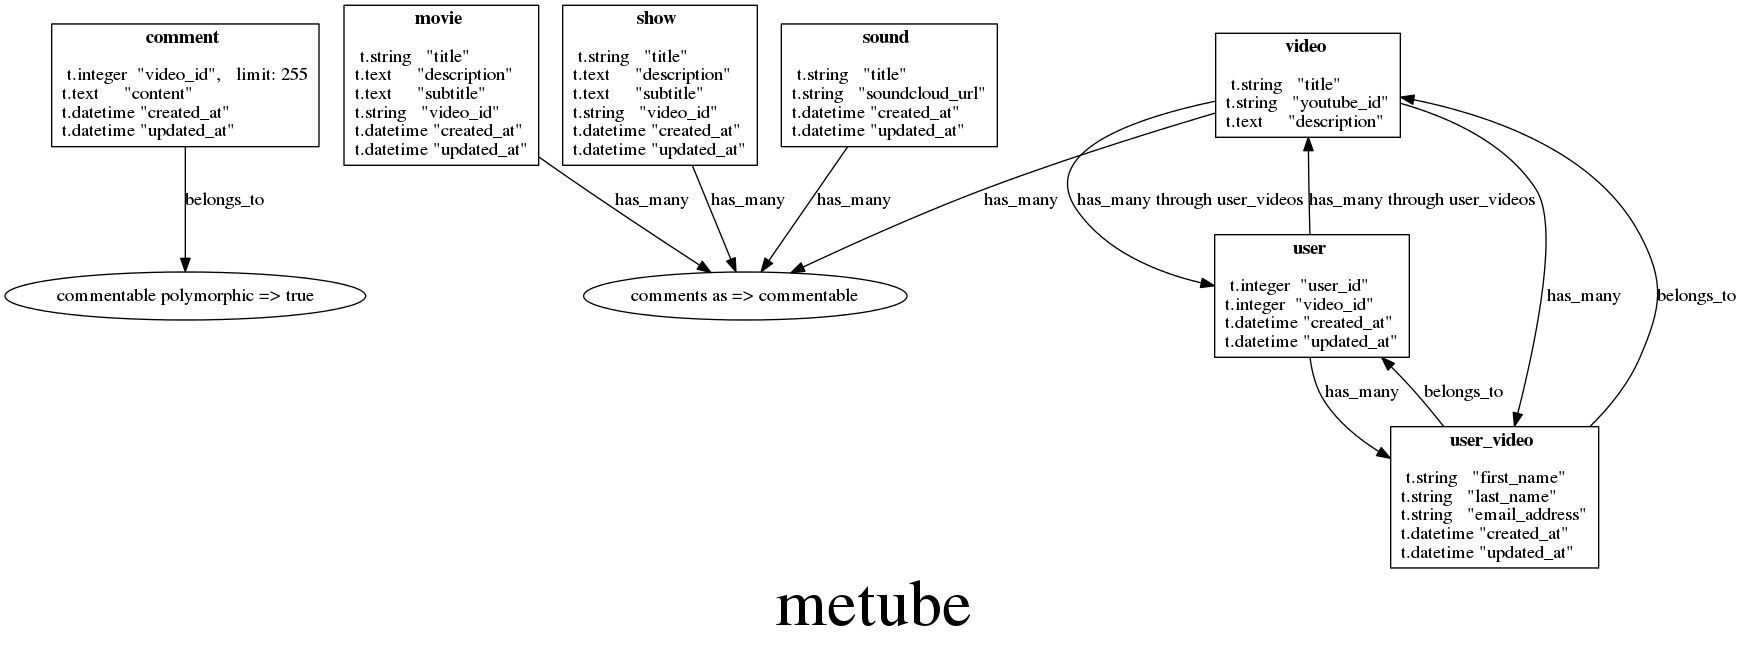
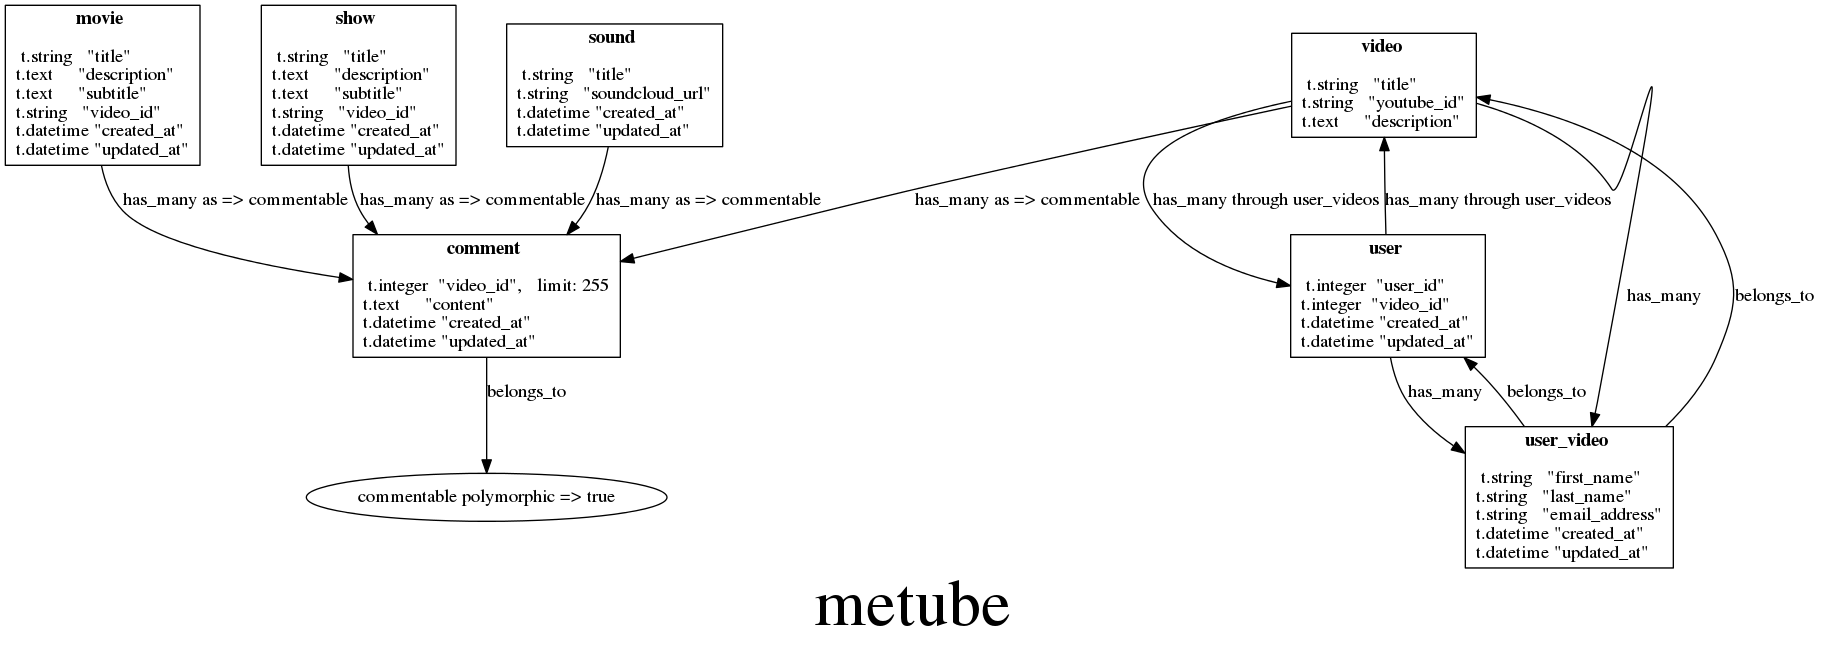
handling polymorphic associations correctly!

diff --git a/app/controllers/scrapers_controller.rb b/app/controllers/scrapers_controller.rb
@@ -125,11 +125,12 @@ class ScrapersController < ApplicationController
           index = nodeNames.find_index(nodeToConnect.split()[0].singularize) 
           nodeToConnect = nodes[index]
 
+        #processing for polymorphic "as" association
+        elsif (nodeToConnect.include?("as"))
+          relationship += nodeToConnect.split()[1..-1].join(" ")
+          index = nodeNames.find_index(nodeToConnect.split()[0].singularize)
+          nodeToConnect = nodes[index]
 
-        # processing for polymorphic "as" association
-        # elsif (nodeToConnect.include?("as"))
-        #   index = nodeNames.find_index(nodeToConnect.split()[0].singularize)
-        #   nodeToConnect = nodes[index]
         #if plural find the singular model node
         elsif (nodeToConnect.singularize != nodeToConnect)
           index = nodeNames.find_index(nodeToConnect.singularize)
